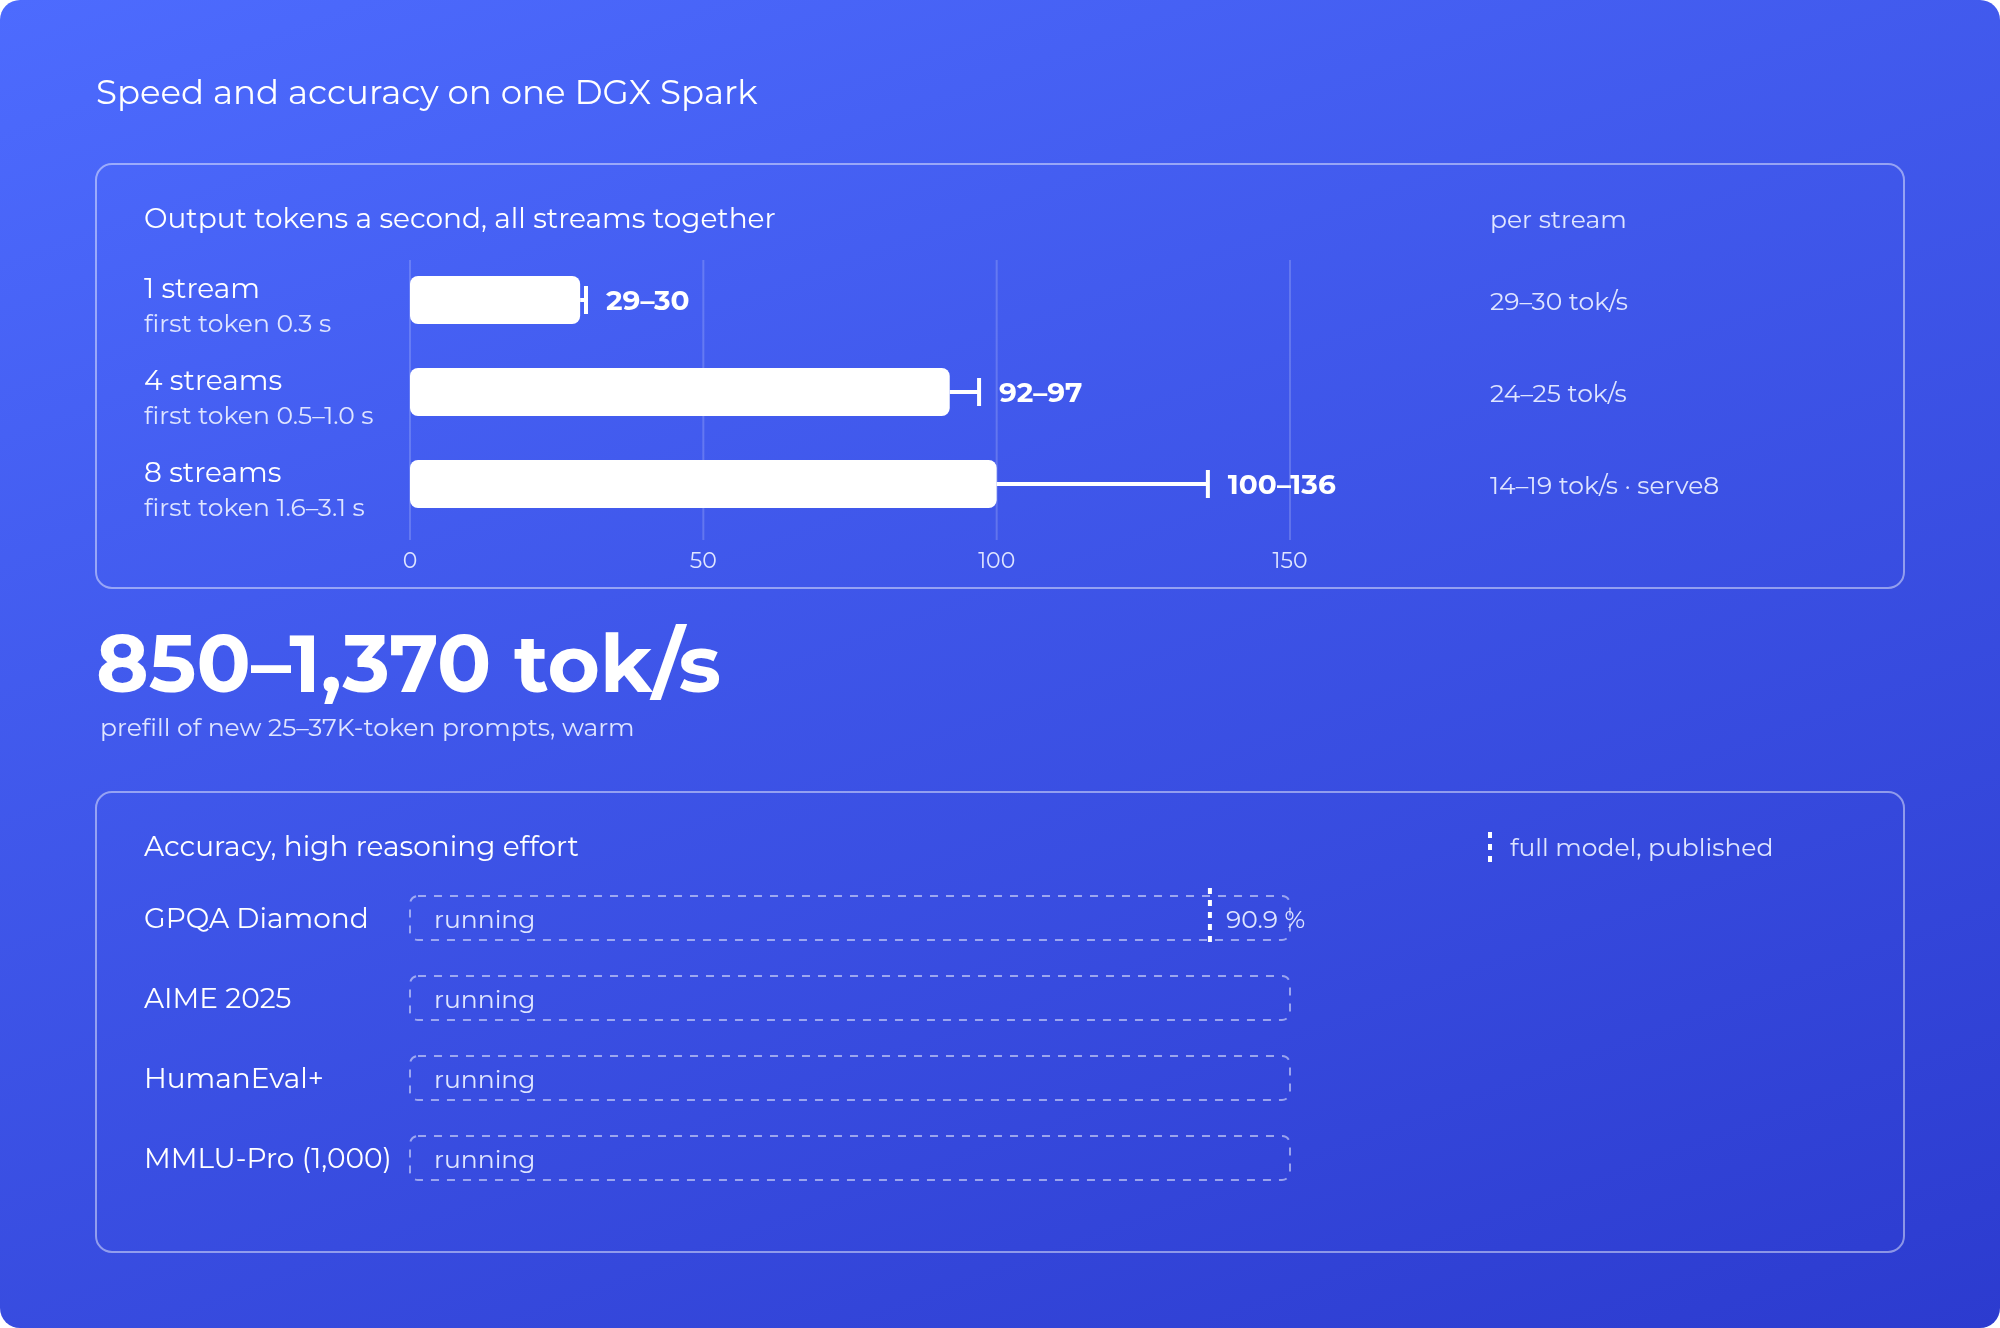
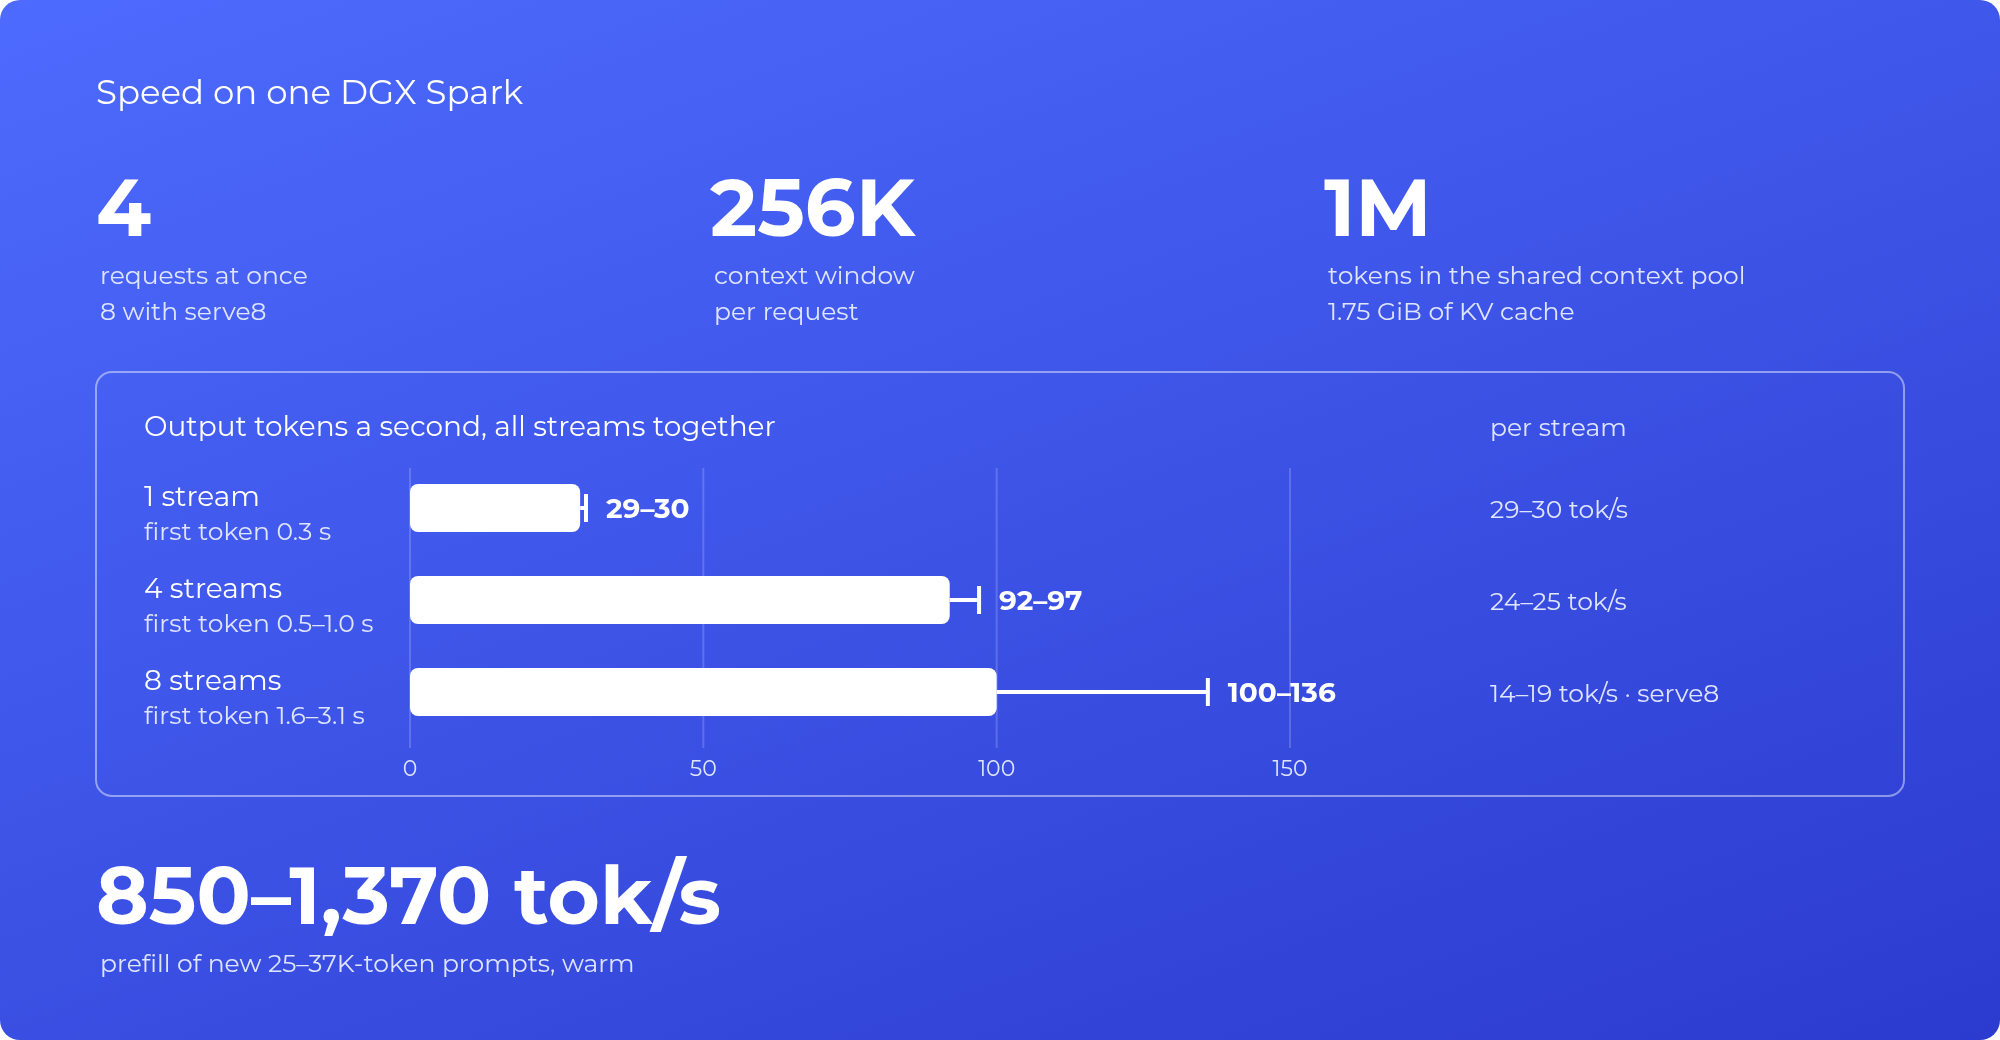
README: speed with its configuration, and a benchmark table against published scores; evals at maximum effort

diff --git a/recipe/cli.py b/recipe/cli.py
@@ -62,7 +62,7 @@ def main() -> None:
     evals = commands.add_parser("eval", help="accuracy on GPQA Diamond, AIME 2025, MMLU-Pro and HumanEval+")
     evals.add_argument("--profile", default="base")
     evals.add_argument("--bench", default="gpqa-diamond,aime-2025,humaneval-plus,mmlu-pro")
-    evals.add_argument("--effort", default="high")
+    evals.add_argument("--effort", default="max")
     evals.add_argument("--max-tokens", type=int, default=32768)
     evals.add_argument("--concurrency", type=int, default=4)
     needle = commands.add_parser("needle", help="retrieval from a long prompt, with the lowest free memory on the way")

diff --git a/README.md b/README.md
@@ -19,9 +19,9 @@ stay on the SSD:
 
 ## Speed
 
-<p align="center"><img src="docs/assets/speed.png" alt="1 stream: 29-30 tok/s, first token 0.3 s; 4 streams: 92-97 tok/s in total, 24-25 per stream, first token 0.5-1.0 s; 8 streams: 100-136 tok/s in total, 14-19 per stream, first token 1.6-3.1 s. Prefill 850-1,370 tok/s. Accuracy on GPQA Diamond, AIME 2025, HumanEval+ and MMLU-Pro is being measured; the full model scores 90.9 % on GPQA Diamond." width="100%"></p>
+<p align="center"><img src="docs/assets/speed.png" alt="4 requests at once (8 with serve8), a 256K context window per request, a 1M-token shared context pool. 1 stream: 29-30 tok/s, first token 0.3 s; 4 streams: 92-97 tok/s in total, 24-25 per stream; 8 streams: 100-136 tok/s in total, 14-19 per stream. Prefill 850-1,370 tok/s." width="100%"></p>
 
-Greedy decoding, 512 tokens per request, warm cache. Accuracy runs on the same box at high reasoning effort.
+Greedy decoding, 512 tokens per request, warm cache.
 
 Known limits:
 
@@ -31,6 +31,10 @@ Known limits:
   throughput.
 - Each token runs the fewest of its 6 routed experts that carry 85 % of the router weight
   (`TF_DSV41_EXPERT_TOPP=0.85`). Running all 6 is a third slower here.
+
+## Benchmarks
+
+<p align="center"><img src="docs/assets/benchmarks.png" alt="Benchmarks table: this quant's GPQA Diamond, AIME 2025, HumanEval+ and MMLU-Pro scores are being measured. Published: GPQA Diamond 90.9% DeepSeek-V4.1-Flash, 90.1% V4-Pro, 91.7% GPT-5.6 Luna (Vals), 91.7% Qwen3.8-Flash-Next; MMLU-Pro 87.5% V4-Pro, 86.0% GPT-5.6 Luna (Vals); no published AIME 2025 or HumanEval+ scores for these models." width="100%"></p>
 
 ## Running it
 
